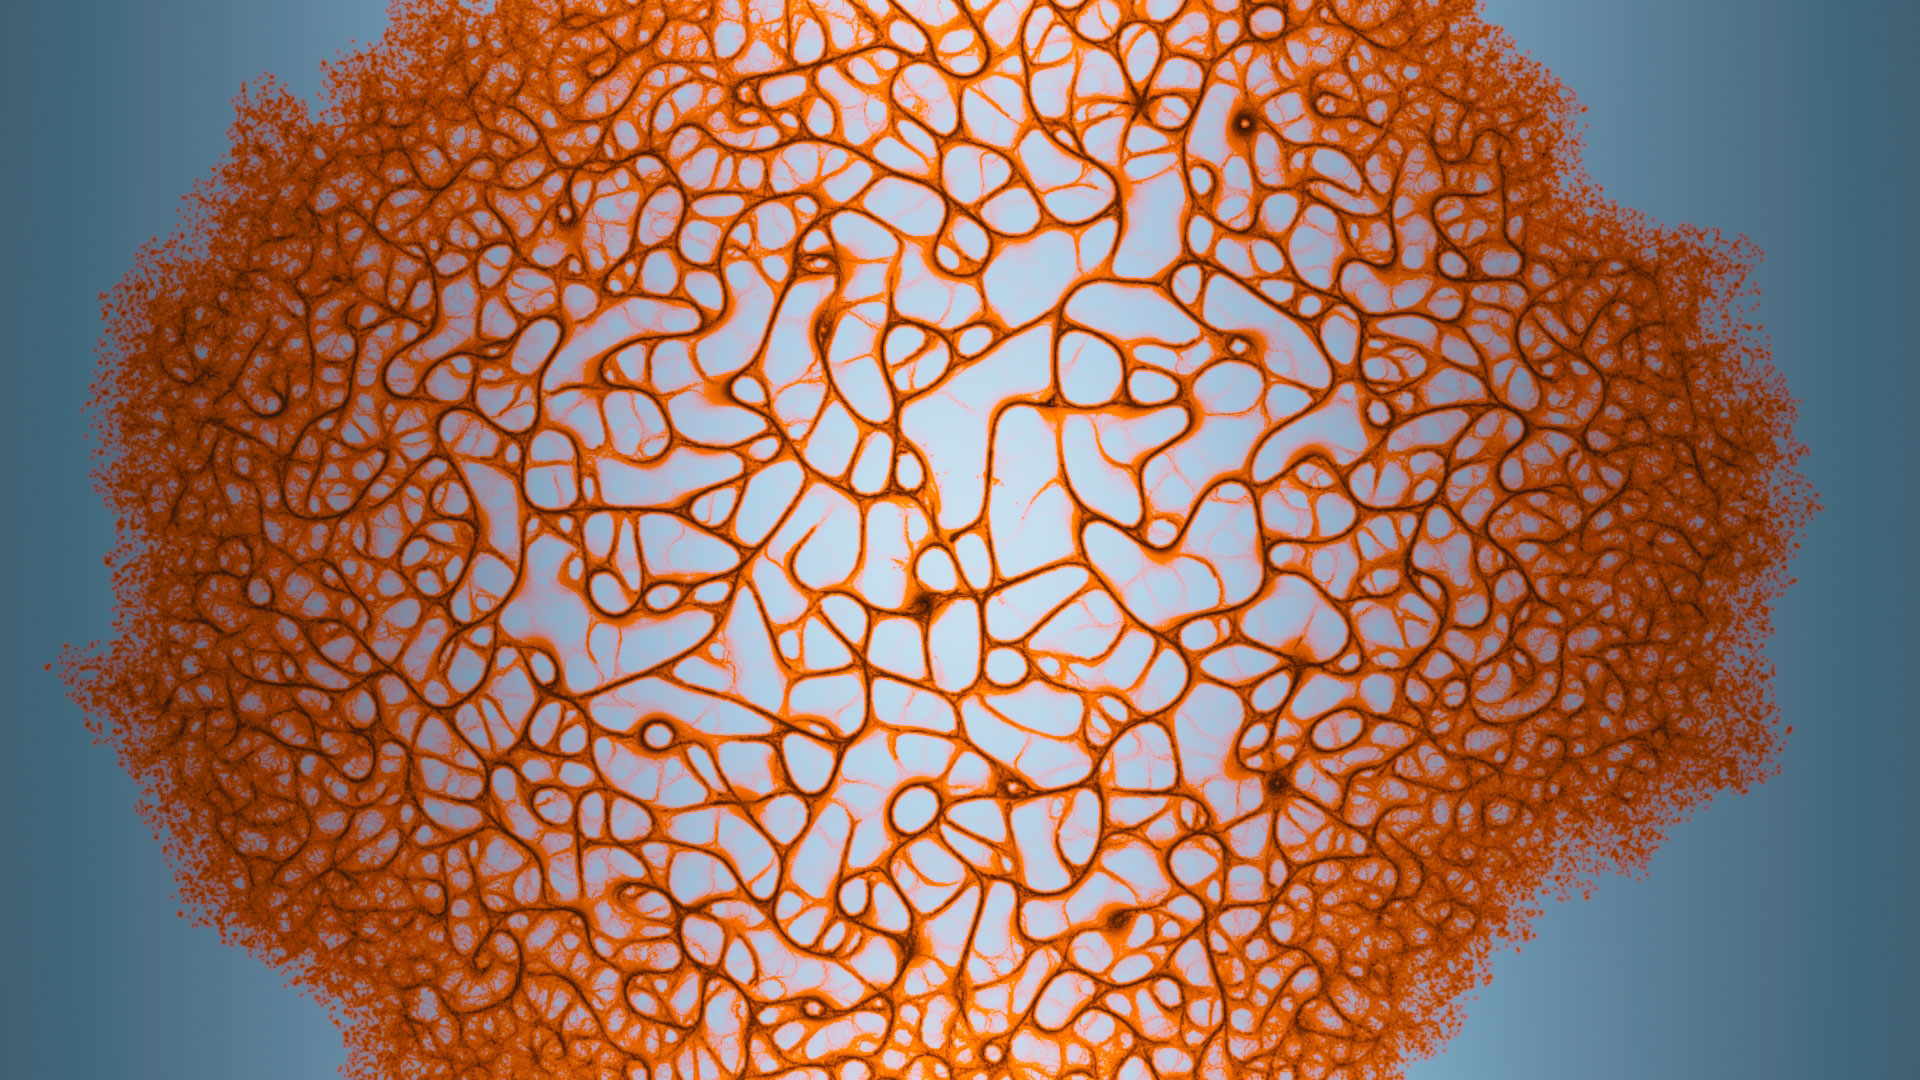
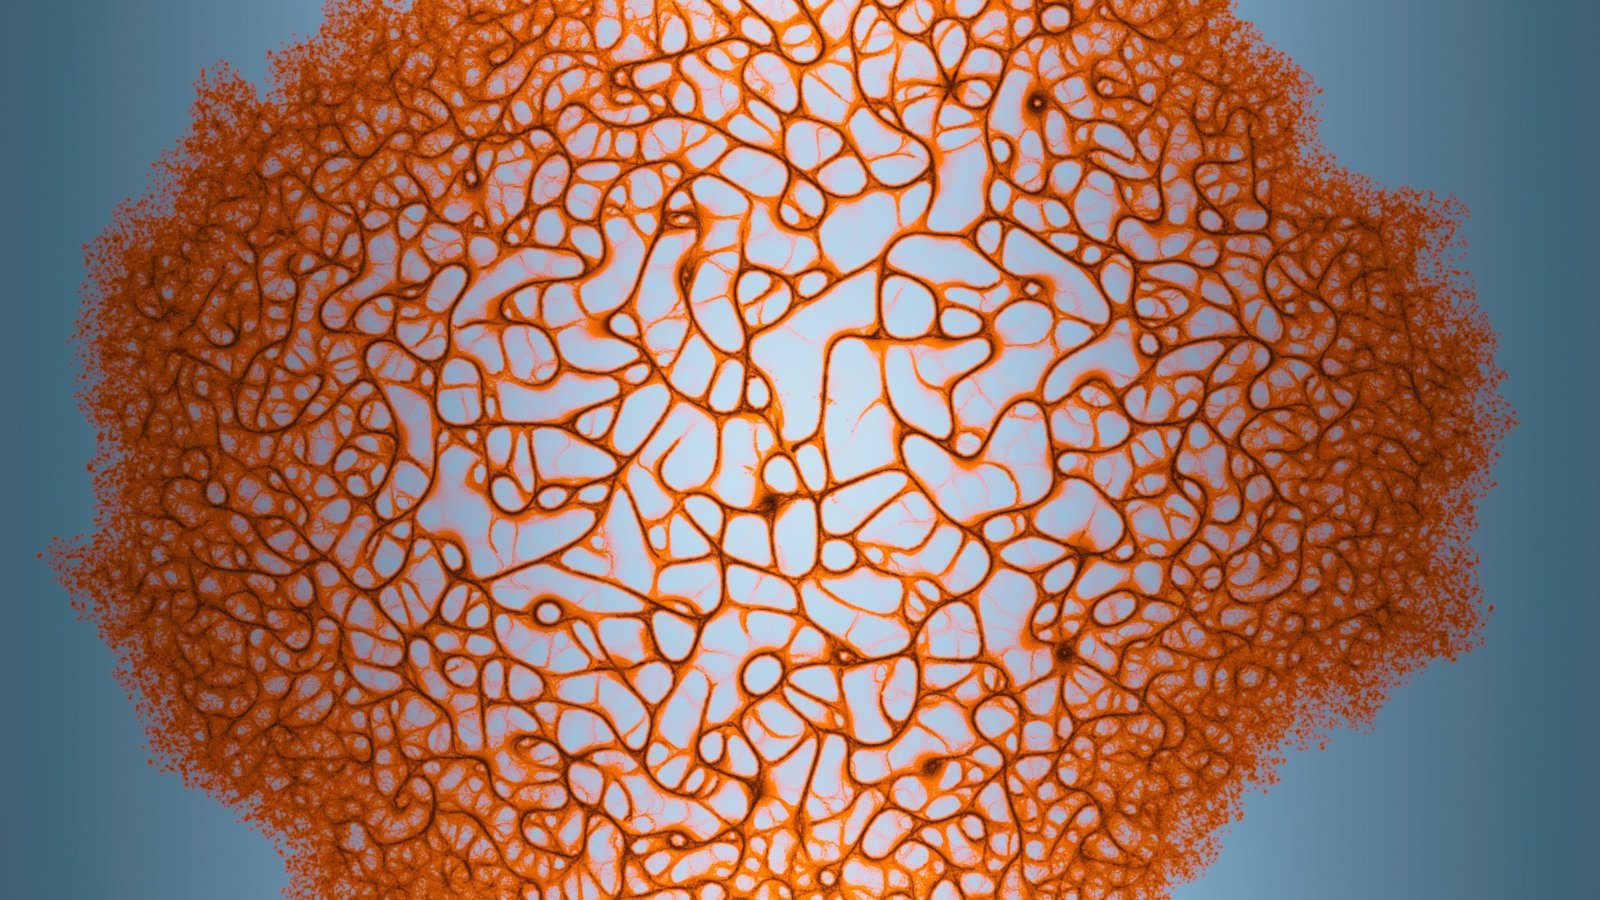
Optimize oversized featured images; archive unused images
- 12 featured images resized (max 1600px) and re-encoded: JPEG q85, or WebP q85
  where transparent; 11.5 MB -> 2.6 MB. Originals in _archive/featured-originals/
  with compare.html.
- Unused images moved to _archive/unused-images/: alternative featured.jpg in
  17-vienna-design-week and 20-wads (site shows featured-2/featured-1), starter
  demo album, hero-academic.png.

Changed region(s): [[0.5312, 0.9956, 0.5625, 1.0]]

diff --git a/_archive/featured-originals/compare.html b/_archive/featured-originals/compare.html
@@ -1,0 +1,22 @@
+<!doctype html><meta charset=utf-8><meta name=viewport content="width=device-width,initial-scale=1"><title>Featured image comparison</title><style>body{font:14px/1.4 system-ui,sans-serif;margin:16px;background:#fff;color:#222}
+@media (prefers-color-scheme:dark){body{background:#1b1b1b;color:#ddd}}
+.row{display:grid;grid-template-columns:1fr 1fr;gap:12px;margin:0 0 28px}
+figure{margin:0}img{width:100%;height:auto;border:1px solid #8884;background:repeating-conic-gradient(#8882 0 25%,transparent 0 50%) 0 0/16px 16px}
+figcaption{font-size:12px;opacity:.75}h2{font-size:15px;margin:20px 0 6px}
+@media (max-width:640px){.row{grid-template-columns:1fr}}</style>
+<h1>Featured images: original vs. optimized</h1><p>Left: original (backup). Right: now used by the site. Checkerboard = transparency.</p>
+<h2>content/course/16-vsms</h2><div class=row><figure><img loading=lazy src="content/course/16-vsms/featured.PNG"><figcaption>original — PNG, 1000x707, 658 KB</figcaption></figure><figure><img loading=lazy src="../../content/course/16-vsms/featured.jpg"><figcaption>new — JPEG, 1000x707, 135 KB</figcaption></figure></div>
+<h2>content/course/25-seminar-week</h2><div class=row><figure><img loading=lazy src="content/course/25-seminar-week/featured.png"><figcaption>original — PNG, 1921x1081, 3354 KB</figcaption></figure><figure><img loading=lazy src="../../content/course/25-seminar-week/featured.webp"><figcaption>new — WEBP, 1600x900, 142 KB</figcaption></figure></div>
+<h2>content/curation/ol/11</h2><div class=row><figure><img loading=lazy src="content/curation/ol/11/featured.png"><figcaption>original — PNG, 1000x625, 648 KB</figcaption></figure><figure><img loading=lazy src="../../content/curation/ol/11/featured.jpg"><figcaption>new — JPEG, 1000x625, 74 KB</figcaption></figure></div>
+<h2>content/curation/ol/12</h2><div class=row><figure><img loading=lazy src="content/curation/ol/12/featured.jpg"><figcaption>original — JPEG, 1920x1080, 609 KB</figcaption></figure><figure><img loading=lazy src="../../content/curation/ol/12/featured.jpg"><figcaption>new — JPEG, 1600x900, 320 KB</figcaption></figure></div>
+<h2>content/curation/ol/15</h2><div class=row><figure><img loading=lazy src="content/curation/ol/15/featured.jpg"><figcaption>original — JPEG, 2500x1320, 615 KB</figcaption></figure><figure><img loading=lazy src="../../content/curation/ol/15/featured.jpg"><figcaption>new — JPEG, 1600x845, 302 KB</figcaption></figure></div>
+<h2>content/curation/ol/19</h2><div class=row><figure><img loading=lazy src="content/curation/ol/19/featured.jpg"><figcaption>original — JPEG, 2047x1170, 744 KB</figcaption></figure><figure><img loading=lazy src="../../content/curation/ol/19/featured.jpg"><figcaption>new — JPEG, 1600x915, 411 KB</figcaption></figure></div>
+<h2>content/curation/ol/2</h2><div class=row><figure><img loading=lazy src="content/curation/ol/2/featured.jpg"><figcaption>original — JPEG, 2362x1575, 574 KB</figcaption></figure><figure><img loading=lazy src="../../content/curation/ol/2/featured.jpg"><figcaption>new — JPEG, 1600x1067, 236 KB</figcaption></figure></div>
+<h2>content/curation/ol/8</h2><div class=row><figure><img loading=lazy src="content/curation/ol/8/featured.png"><figcaption>original — PNG, 890x556, 740 KB</figcaption></figure><figure><img loading=lazy src="../../content/curation/ol/8/featured.webp"><figcaption>new — WEBP, 890x556, 41 KB</figcaption></figure></div>
+<h2>content/event/18-architectonics-zhaw</h2><div class=row><figure><img loading=lazy src="content/event/18-architectonics-zhaw/featured.jpg"><figcaption>original — JPEG, 1838x2600, 746 KB</figcaption></figure><figure><img loading=lazy src="../../content/event/18-architectonics-zhaw/featured.jpg"><figcaption>new — JPEG, 1131x1600, 351 KB</figcaption></figure></div>
+<h2>content/event/19-school-of-images</h2><div class=row><figure><img loading=lazy src="content/event/19-school-of-images/featured.jpg"><figcaption>original — JPEG, 2500x1767, 503 KB</figcaption></figure><figure><img loading=lazy src="../../content/event/19-school-of-images/featured.jpg"><figcaption>new — JPEG, 1600x1131, 229 KB</figcaption></figure></div>
+<h2>content/project/13-porocity</h2><div class=row><figure><img loading=lazy src="content/project/13-porocity/featured.png"><figcaption>original — PNG, 1500x1500, 575 KB</figcaption></figure><figure><img loading=lazy src="../../content/project/13-porocity/featured.webp"><figcaption>new — WEBP, 1500x1500, 200 KB</figcaption></figure></div>
+<h2>content/project/19-o-graz</h2><div class=row><figure><img loading=lazy src="content/project/19-o-graz/featured.png"><figcaption>original — PNG, 1240x1748, 1718 KB</figcaption></figure><figure><img loading=lazy src="../../content/project/19-o-graz/featured.jpg"><figcaption>new — JPEG, 1135x1600, 142 KB</figcaption></figure></div>
+<h1>Pages with two featured candidates</h1><p>Left: shown on the site (theme picks the first alphabetically). Right: archived alternative.</p>
+<h2>content/event/17-vienna-design-week</h2><div class=row><figure><img loading=lazy src="../../content/event/17-vienna-design-week/featured-2.jpg"><figcaption>shown — featured-2.jpg</figcaption></figure><figure><img loading=lazy src="../unused-images/content/event/17-vienna-design-week/featured.jpg"><figcaption>archived — featured.jpg</figcaption></figure></div>
+<h2>content/project/20-wads</h2><div class=row><figure><img loading=lazy src="../../content/project/20-wads/featured-1.webp"><figcaption>shown — featured-1.webp</figcaption></figure><figure><img loading=lazy src="../unused-images/content/project/20-wads/featured.jpg"><figcaption>archived — featured.jpg</figcaption></figure></div>

diff --git a/_archive/README.md b/_archive/README.md
@@ -1,0 +1,15 @@
+# Archive (not built)
+
+Hugo does not build this folder. Kept for reference / rollback.
+
+- `featured-originals/` — originals of featured images that were optimized on 2026-11-22
+  (resized to max 1600 px; JPEG q85, or WebP q85 where the image has transparency).
+  Open `featured-originals/compare.html` in a browser to compare old vs. new.
+  To roll back one image: copy it back into its `content/...` folder and delete the new `featured.*` file there.
+- `unused-images/` — images no page used:
+  - `content/event/17-vienna-design-week/featured.jpg`, `content/project/20-wads/featured.jpg` —
+    alternatives; the site shows `featured-2.jpg` / `featured-1.webp` (the theme takes the first `*featured*` file alphabetically).
+    To use an archived one instead, move it back and remove the numbered file.
+  - `assets/media/albums/demo/`, `assets/media/hero-academic.png` — starter-template demo images.
+
+Note: a page folder should contain only one `*featured*` file, otherwise the alphabetically first one wins.
